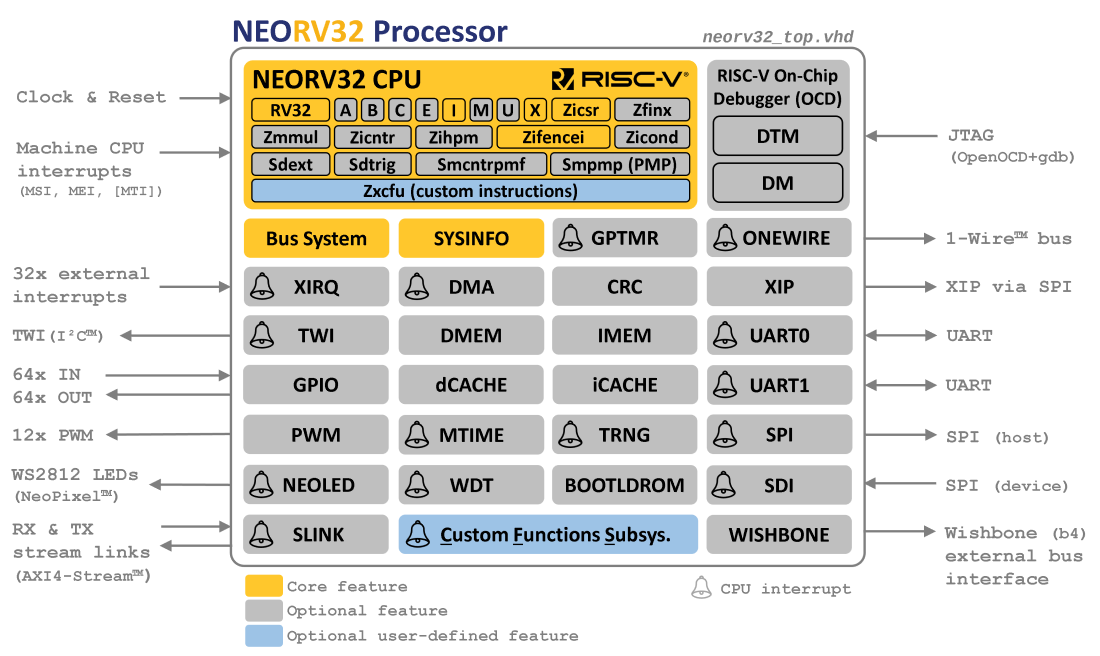
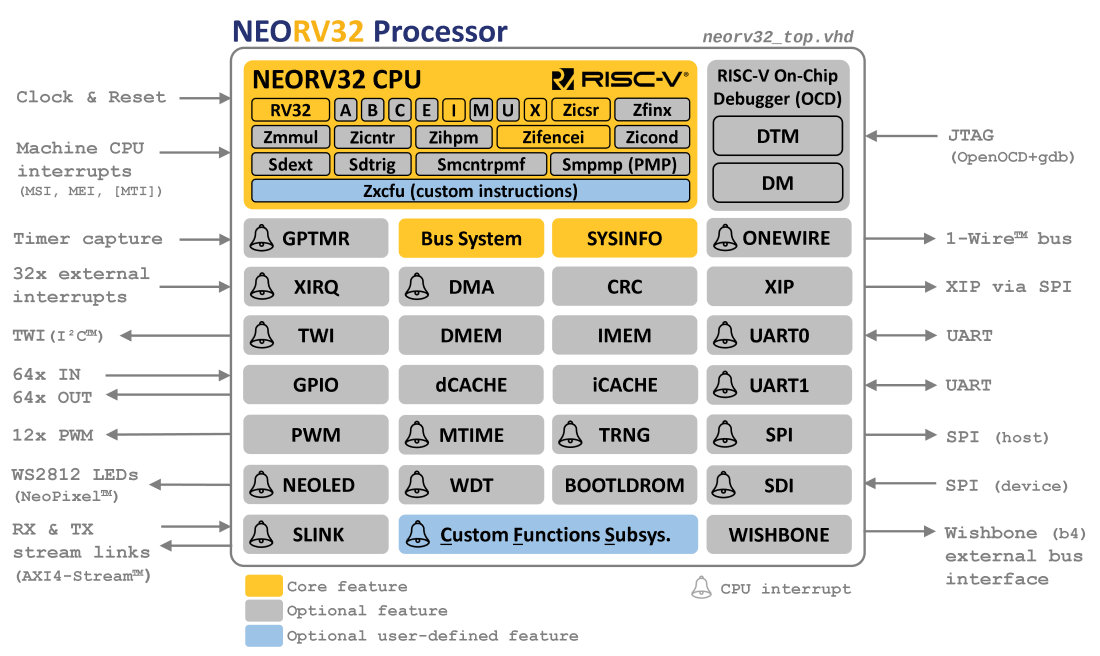
[docs] add GPTMR capture input

diff --git a/README.md b/README.md
@@ -143,7 +143,7 @@ allows booting application code via UART or from external SPI flash
 **Timers and Counters**
 
 * 64-bit machine timer ([MTIME](https://stnolting.github.io/neorv32/#_machine_system_timer_mtime)), RISC-V spec. compatible
-* 32-bit general purpose timer ([GPTMR](https://stnolting.github.io/neorv32/#_general_purpose_timer_gptmr))
+* 32-bit general purpose timer ([GPTMR](https://stnolting.github.io/neorv32/#_general_purpose_timer_gptmr)) with capture input
 * watchdog timer ([WDT](https://stnolting.github.io/neorv32/#_watchdog_timer_wdt))
 
 **Input / Output**
